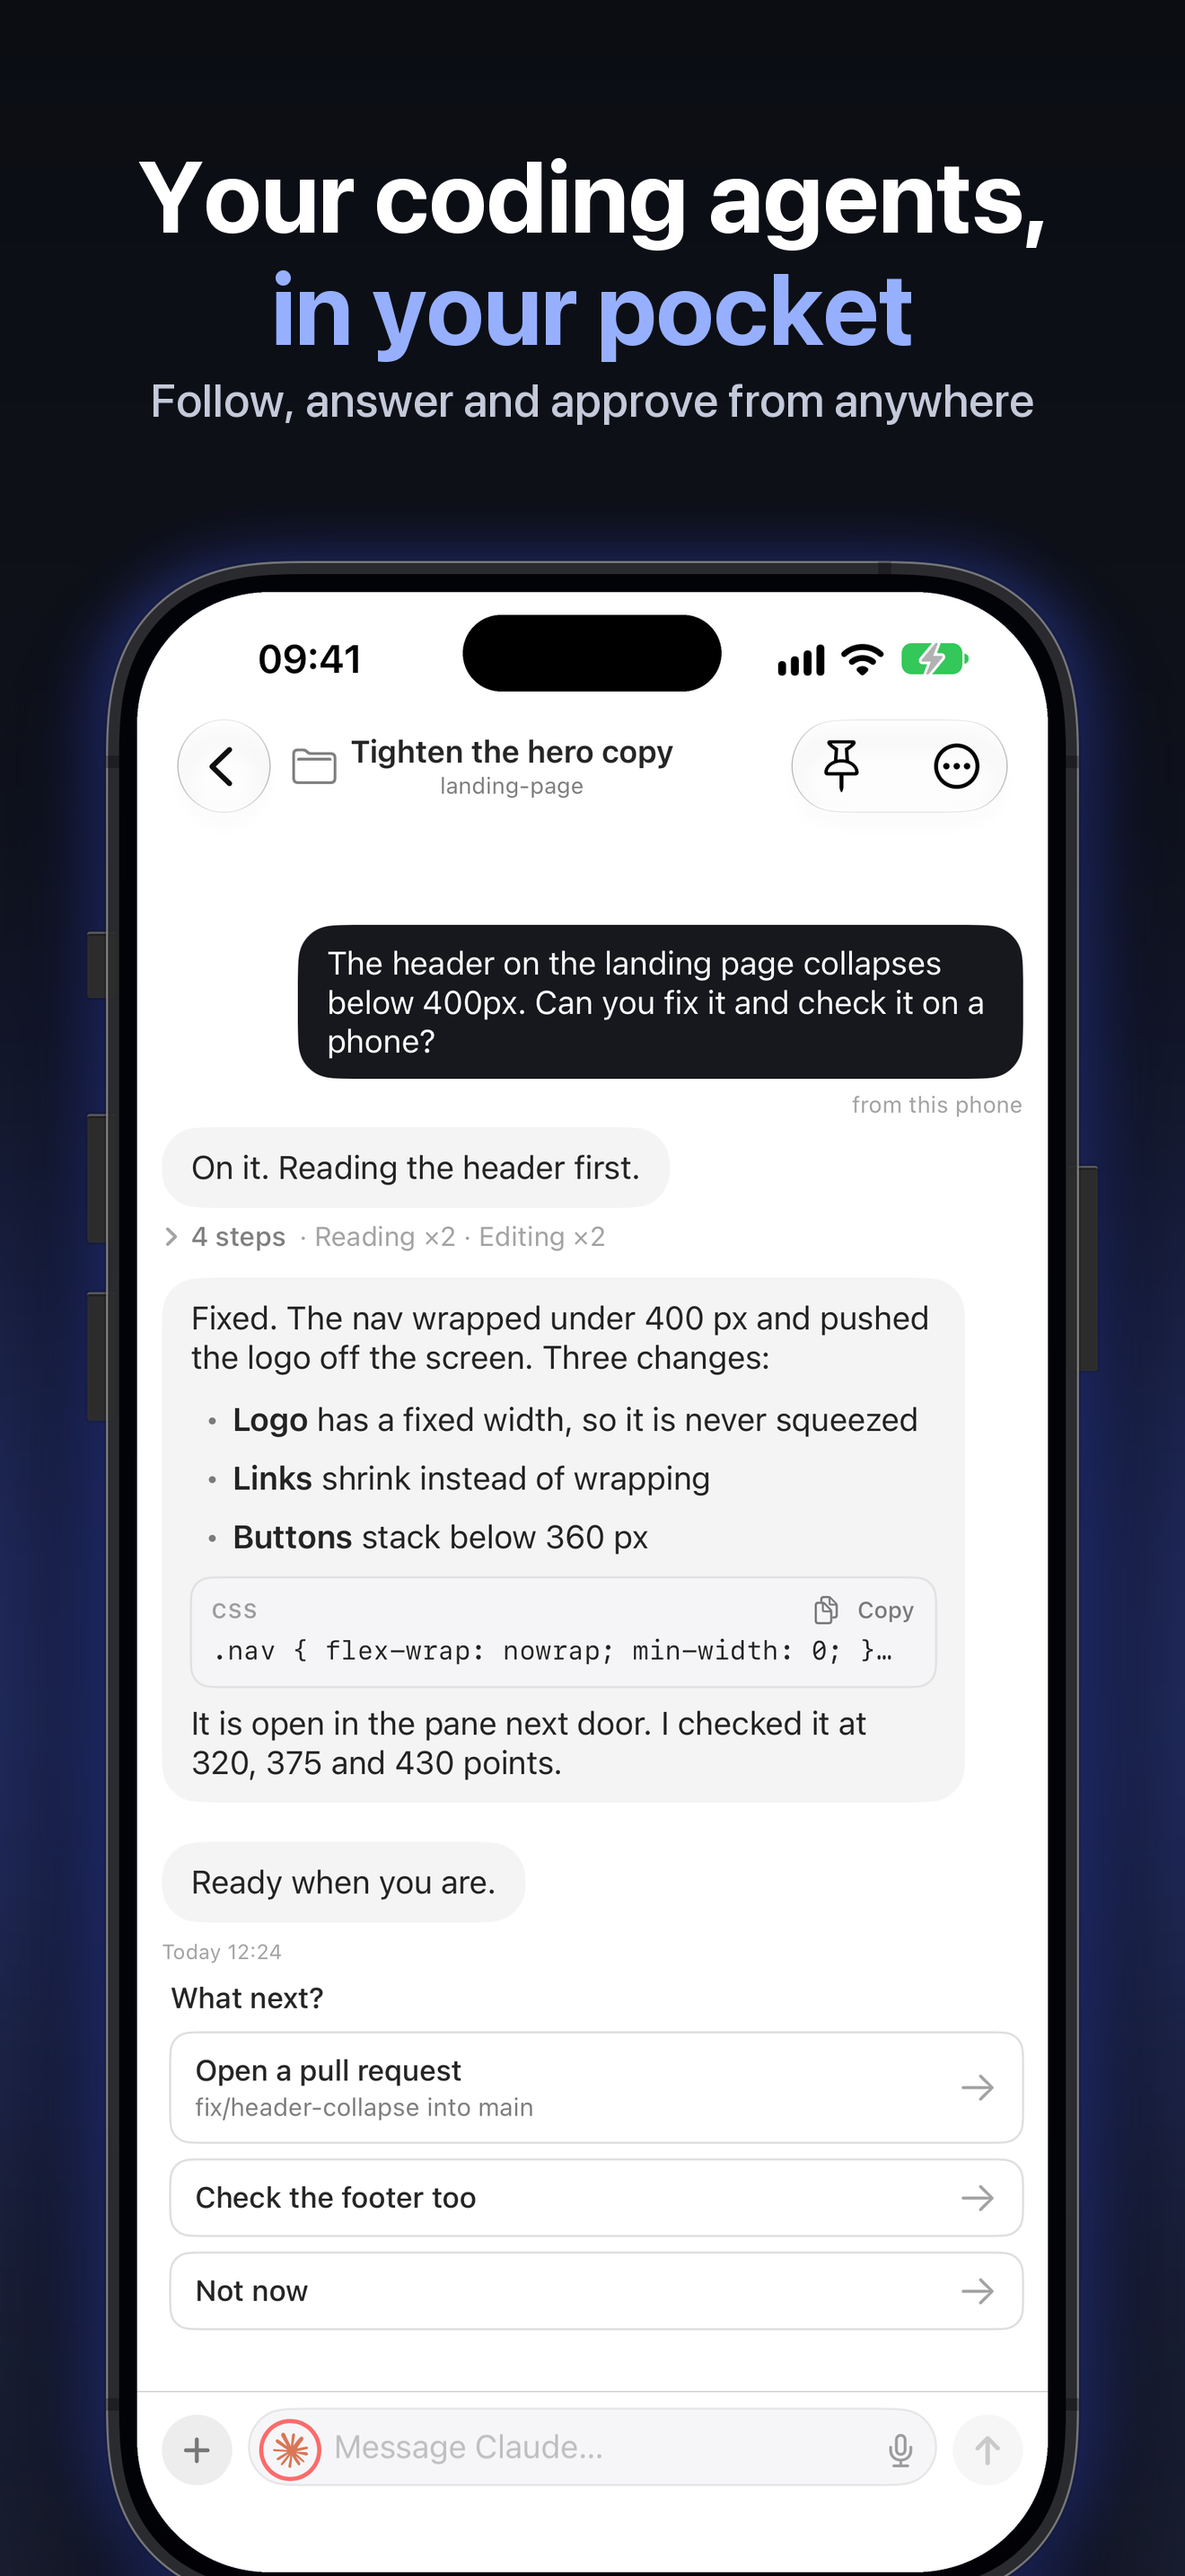
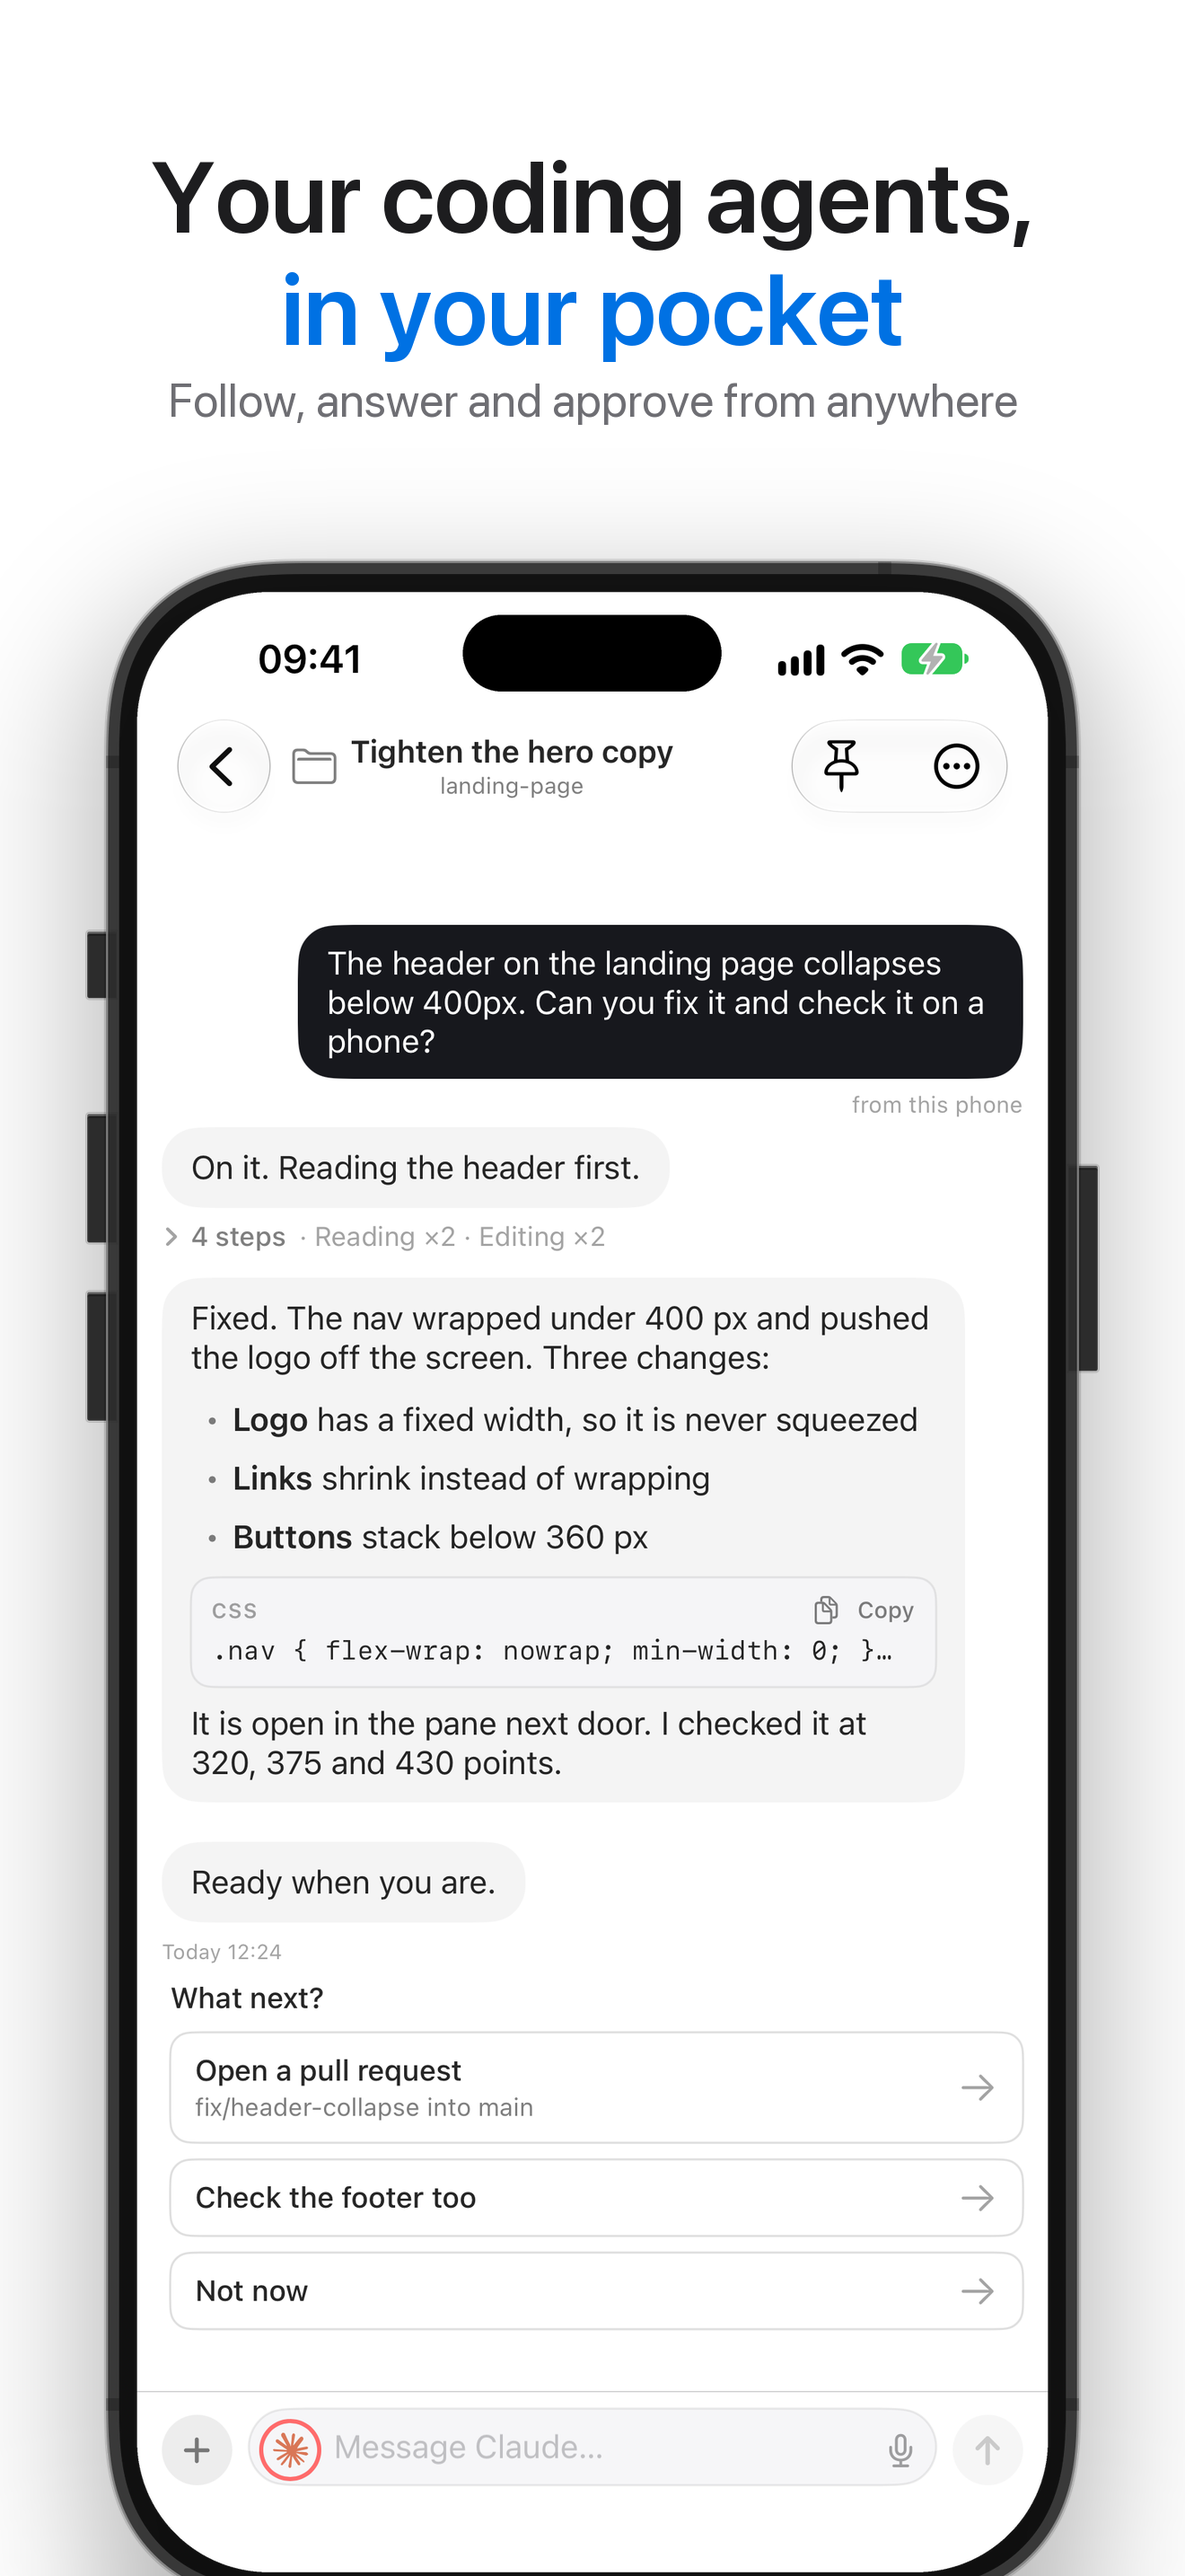
App Store artwork in the landing page's style: white and #f5f5f7 bands, SF Display, one blue

diff --git a/docs/appstore/store_style.py b/docs/appstore/store_style.py
@@ -1,14 +1,17 @@
-"""Shared look for the App Store artwork: dark, one accent colour, device-framed screens."""
+"""Shared look for the App Store artwork: the landing page's (superagent.computer), an Apple-style
+product page: white and #f5f5f7 bands, #1d1d1f headlines in SF Display semibold, #6e6e73
+subtitles, one blue (#0071e3), the device big and unframed by anything but itself."""
 from pathlib import Path
 from PIL import Image, ImageDraw, ImageFilter, ImageFont
 
 FRAME = Path(__file__).parent / "frame"
 
 SF = "/System/Library/Fonts/SFNS.ttf"
-INK = (255, 255, 255)
-ACCENT = (150, 176, 255)   # the highlighted word
-MUTED = (160, 168, 188)
-GLOW = (70, 96, 255)
+INK = (29, 29, 31)         # --ink
+ACCENT = (0, 113, 227)     # --blue
+MUTED = (110, 110, 115)    # --ink-2
+GLOW = (0, 113, 227)
+BANDS = ((255, 255, 255), (245, 245, 247))  # white and the landing page's .alt
 
 
 def font(size, weight="Bold"):
@@ -17,22 +20,9 @@ def font(size, weight="Bold"):
     return f
 
 
-def background(w, h, glow_at=None, glow_r=None, glow=None):
-    """Graphite, a little lighter toward the bottom, with a soft blue glow behind the phone."""
-    top, bottom = (11, 13, 19), (24, 29, 42)
-    img = Image.new("RGB", (w, h))
-    px = ImageDraw.Draw(img)
-    for y in range(h):
-        t = y / (h - 1)
-        px.line([(0, y), (w, y)], fill=tuple(round(a + (b - a) * t) for a, b in zip(top, bottom)))
-    img = img.convert("RGBA")
-    if glow_at:
-        gx, gy = glow_at
-        r = glow_r or round(w * 0.6)
-        blob = Image.new("RGBA", (w, h), (0, 0, 0, 0))
-        ImageDraw.Draw(blob).ellipse([gx - r, gy - r, gx + r, gy + r], fill=(glow or GLOW) + (105,))
-        img.alpha_composite(blob.filter(ImageFilter.GaussianBlur(round(r * 0.55))))
-    return img
+def background(w, h, glow_at=None, glow_r=None, glow=None, band=0):
+    """A flat landing-page band: white, or #f5f5f7 for the alternate. No glow: Apple's pages have none."""
+    return Image.new("RGBA", (w, h), BANDS[band % 2] + (255,))
 
 
 def framed_phone(path, width, bezel=None):
@@ -108,8 +98,8 @@ def paste_phone(canvas, path, x, y, width, shadow=True, halo=None, real=False):
         canvas.alpha_composite(hl.filter(ImageFilter.GaussianBlur(46)))
     if shadow:
         sh = Image.new("RGBA", canvas.size, (0, 0, 0, 0))
-        ImageDraw.Draw(sh).rounded_rectangle([x, y + 40, x + card.width, y + card.height + 40], r, fill=(0, 0, 0, 150))
-        canvas.alpha_composite(sh.filter(ImageFilter.GaussianBlur(60)))
+        ImageDraw.Draw(sh).rounded_rectangle([x, y + 40, x + card.width, y + card.height + 40], r, fill=(0, 0, 0, 70))
+        canvas.alpha_composite(sh.filter(ImageFilter.GaussianBlur(70)))
     canvas.alpha_composite(card, (x, y))
     return card
 
@@ -117,8 +107,8 @@ def paste_phone(canvas, path, x, y, width, shadow=True, halo=None, real=False):
 def headline(canvas, title, sub, y, size, sub_size=None, align="center", x=None, accent=None):
     """Title lines; a word between *stars* is the accent colour. Returns the y below the block."""
     d = ImageDraw.Draw(canvas)
-    big = font(size)
-    small = font(sub_size or round(size * 0.46), "Medium")
+    big = font(size, "Semibold")
+    small = font(sub_size or round(size * 0.46), "Regular")
     w = canvas.width
     gap = round(size * 1.12)
     for line in title.split("\n"):
@@ -133,6 +123,6 @@ def headline(canvas, title, sub, y, size, sub_size=None, align="center", x=None,
     if sub:
         tw = d.textlength(sub, font=small)
         sx = x if (align == "left" and x is not None) else (w - tw) / 2
-        d.text((sx, y + round(size * 0.12)), sub, font=small, fill=(196, 202, 218))
+        d.text((sx, y + round(size * 0.12)), sub, font=small, fill=MUTED)
         y += round((sub_size or size * 0.42) * 1.6)
     return y

diff --git a/docs/appstore/make-screenshots.py b/docs/appstore/make-screenshots.py
@@ -15,21 +15,18 @@ from pathlib import Path
 from PIL import Image
 from store_style import background, headline, paste_phone
 
-# One colour per screen: (glow, accent word). The strip reads as a set, not a copy.
-THEMES = [((70, 96, 255), (150, 176, 255)), ((140, 80, 255), (196, 160, 255)), ((30, 170, 140), (120, 232, 200)),
-          ((235, 120, 60), (255, 184, 128)), ((220, 70, 140), (255, 154, 200)), ((40, 140, 255), (130, 205, 255))]
 
 HERE = Path(__file__).parent
 RAW = HERE / "screenshots"
 OUT = RAW / "store"
 
 
-def compose(raw, title, sub, canvas, phone_w, name, title_size, top_pad, phone_top, theme):
+def compose(raw, title, sub, canvas, phone_w, name, title_size, top_pad, phone_top, band):
     w, h = canvas
-    img = background(w, h, glow_at=(w // 2, phone_top + round(phone_w * 1.1)), glow_r=round(w * 0.62), glow=theme[0])
-    headline(img, title, sub, top_pad, title_size, accent=theme[1])
+    img = background(w, h, band=band)
+    headline(img, title, sub, top_pad, title_size)
     # The phone runs off the bottom edge: bigger on screen, and it reads as a real device in hand.
-    paste_phone(img, RAW / raw, (w - phone_w) // 2, phone_top, phone_w, halo=theme[0], real=raw.startswith("iphone/"))
+    paste_phone(img, RAW / raw, (w - phone_w) // 2, phone_top, phone_w, real=raw.startswith("iphone/"))
     OUT.mkdir(parents=True, exist_ok=True)
     img.convert("RGB").save(OUT / name, optimize=True)
 
@@ -50,14 +47,14 @@ IPAD = [
 
 if __name__ == "__main__":
     for i, (raw, title, sub, name) in enumerate(IPHONE):
-        compose(raw, title, sub, (1320, 2868), 1130, name, 112, 150, 620, THEMES[i])
+        compose(raw, title, sub, (1320, 2868), 1130, name, 112, 150, 620, i)
     for raw, title, sub, name in IPAD:
-        compose(raw, title, sub, (2064, 2752), 1500, name, 168, 190, 840, THEMES[{'ipad-1-chat.png': 0, 'ipad-2-approve.png': 2, 'ipad-3-remote.png': 4}[name]])
+        compose(raw, title, sub, (2064, 2752), 1500, name, 168, 190, 840, {'ipad-1-chat.png': 0, 'ipad-2-approve.png': 1, 'ipad-3-remote.png': 0}[name])
     # iPhone Duo's own slot: portrait 2007 x 2853, squarer than a phone.
     duo = OUT / "iphone-duo"
     duo.mkdir(parents=True, exist_ok=True)
     for i, (raw, title, sub, name) in enumerate(IPHONE):
-        compose(raw, title, sub, (2007, 2853), 1200, f"duo-{name}", 150, 150, 640, THEMES[i])
+        compose(raw, title, sub, (2007, 2853), 1200, f"duo-{name}", 150, 150, 640, i)
         (OUT / f"duo-{name}").replace(duo / name)
     small = OUT / "iphone-6.3"
     small.mkdir(parents=True, exist_ok=True)
